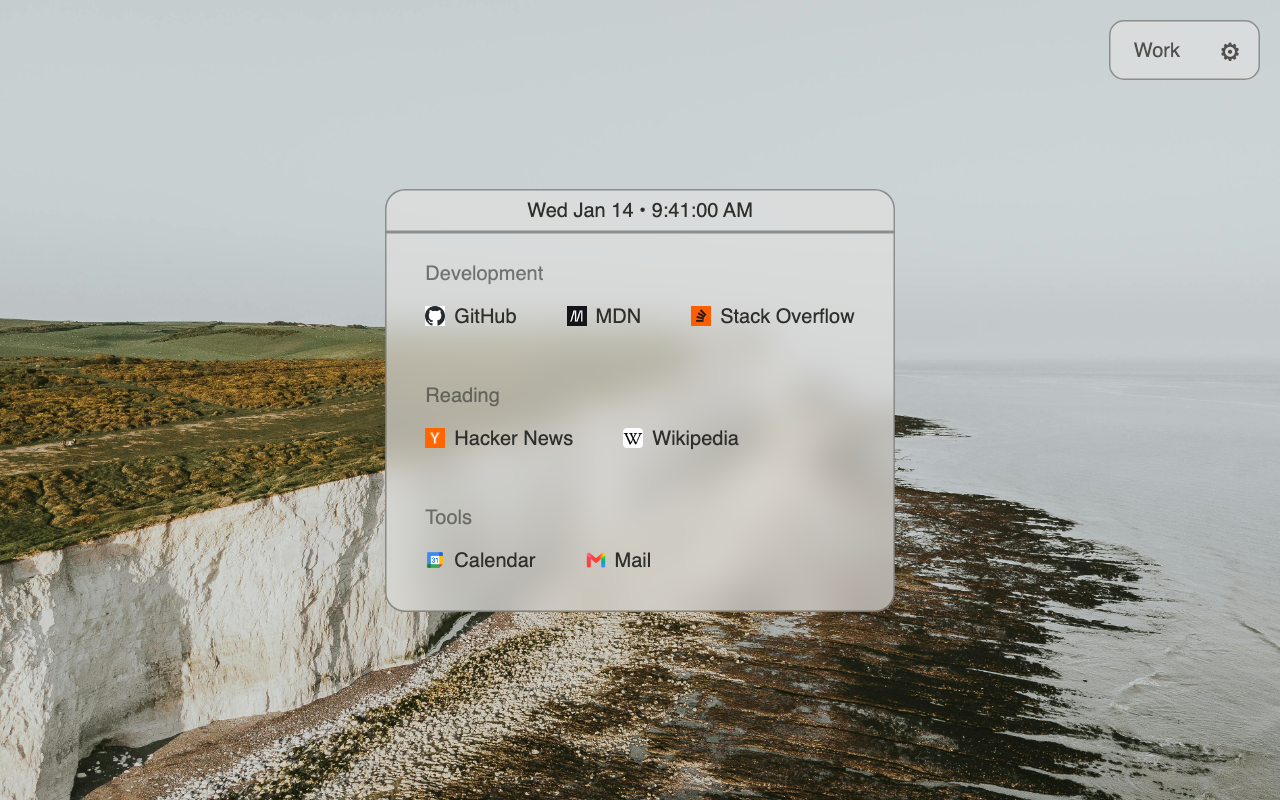
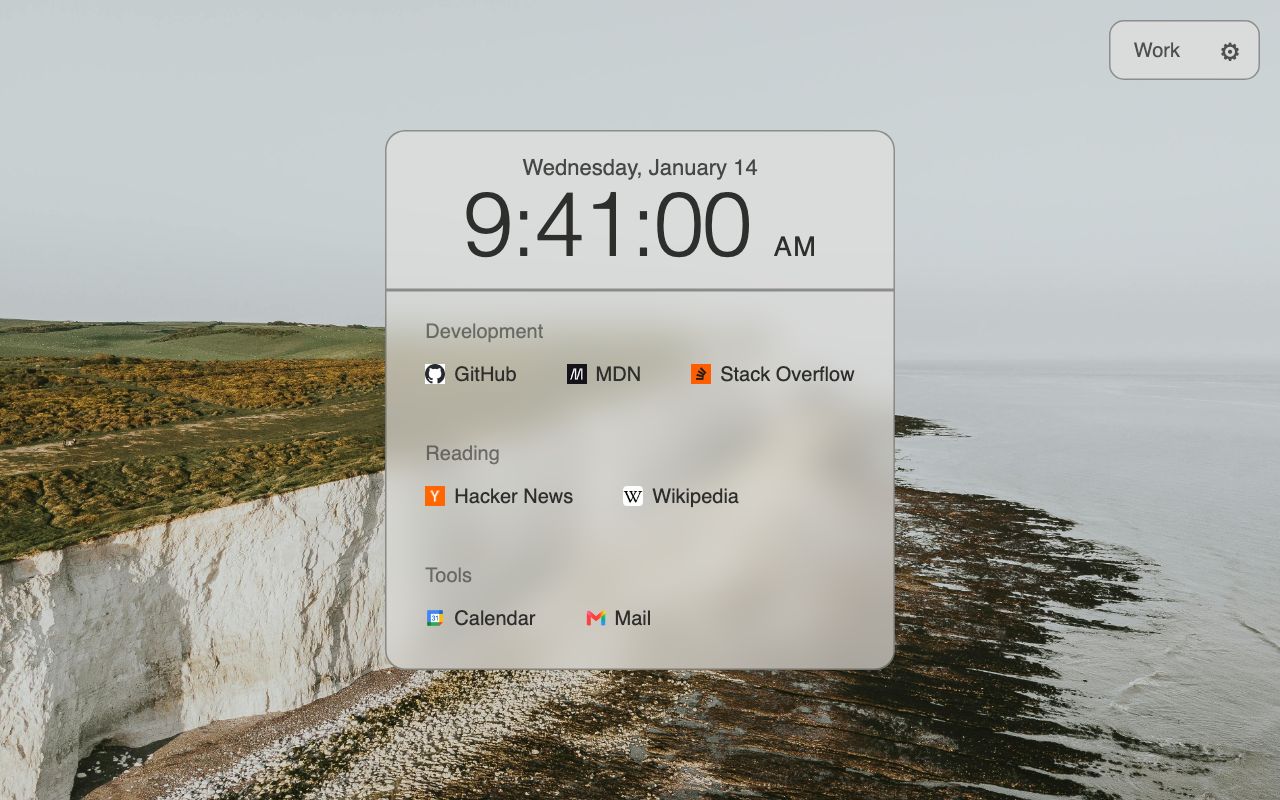
Show a lock-screen style clock in the Center and Sidebar layouts
In the layouts where the clock heads a column, the one-line clock looked
like a caption. There the date now sits on its own line, spelled out,
above a large light time with a small AM/PM, like a phone lock screen.
Corners and Dock keep the one-line clock.

updateClock now renders the date and time as separate spans, so CSS can
lay them out per layout; the inline bullet moved into CSS. Regenerates
the two store screenshots that use these layouts.

diff --git a/render.js b/render.js
@@ -131,7 +131,18 @@ const months = [
   "Dec",
 ];
 
-const getFormattedTime = (settings) => {
+const LONG_DATE = new Intl.DateTimeFormat(undefined, {
+  weekday: "long",
+  month: "long",
+  day: "numeric",
+});
+// Layouts where the clock heads a column show it lock-screen style: the date
+// on its own line above a large time
+const STACKED_CLOCK_LAYOUTS = ["center", "sidebar"];
+
+// The clock's date and time as separate strings; the stacked style gets the
+// spelled-out date, the inline style the short one
+const getClockParts = (settings, stacked) => {
   const now = new Date();
   const dayOfTheWeek = daysOfTheWeek[now.getDay()];
   const month = months[now.getMonth()];
@@ -139,7 +150,7 @@ const getFormattedTime = (settings) => {
   let hours = now.getHours();
   let suffix = "";
   if (settings.twelveHourClock) {
-    suffix = hours < 12 ? " AM" : " PM";
+    suffix = hours < 12 ? "AM" : "PM";
     hours = hours % 12 || 12;
   }
   const minutes = now.getMinutes();
@@ -150,12 +161,11 @@ const getFormattedTime = (settings) => {
   const formattedMinutes = minutes < 10 ? `0${minutes}` : minutes;
   const formattedSeconds = seconds < 10 ? `0${seconds}` : seconds;
   const secondsPart = settings.showSeconds ? `:${formattedSeconds}` : "";
-  const datePart = `${dayOfTheWeek} ${month} ${dayOfTheMonth}`;
-  const timePart = `${formattedHours}:${formattedMinutes}${secondsPart}${suffix}`;
-  if (settings.showDate && settings.showTime) {
-    return `${datePart} \u2022 ${timePart}`;
-  }
-  return settings.showDate ? datePart : timePart;
+  return {
+    date: stacked ? LONG_DATE.format(now) : `${dayOfTheWeek} ${month} ${dayOfTheMonth}`,
+    time: `${formattedHours}:${formattedMinutes}${secondsPart}`,
+    suffix,
+  };
 };
 
 // Chrome's cached icon for a page, via the favicon permission. Sites never
@@ -215,10 +225,19 @@ function renderLinkGroups(groups) {
 }
 
 function updateClock(settings) {
-  const clockSpan = document.querySelector("#clock span");
-  if (clockSpan) {
-    clockSpan.textContent = getFormattedTime(settings);
+  const clockSpan = document.querySelector("#clock > span");
+  if (!clockSpan) return;
+  const stacked = STACKED_CLOCK_LAYOUTS.includes(settings.look.layout);
+  const { date, time, suffix } = getClockParts(settings, stacked);
+  const parts = [];
+  if (settings.showDate) parts.push(`<span class="clock-date">${date}</span>`);
+  if (settings.showTime) {
+    const suffixPart = suffix ? ` <span class="clock-suffix">${suffix}</span>` : "";
+    parts.push(`<span class="clock-time">${time}${suffixPart}</span>`);
   }
+  const html = parts.join("");
+  // Runs every 100ms; only touch the DOM when the text actually changes
+  if (clockSpan.innerHTML !== html) clockSpan.innerHTML = html;
 }
 
 // Each panel zooms independently off its own multiplier

diff --git a/panels.css b/panels.css
@@ -128,9 +128,14 @@ body.no-favicons a.link .favicon {
   border-bottom-left-radius: 0;
   border-bottom-right-radius: 0;
 
-  & span {
+  & > span {
     /* same base size as the links; the clock-scale setting adjusts it */
     font-size: 1rem;
+  }
+
+  /* Inline style: date and time on one line with a bullet between */
+  & .clock-date + .clock-time::before {
+    content: " \2022  ";
   }
 }
 
@@ -175,7 +180,7 @@ body[data-layout="dock"] {
     transform: translate(-50%, -50%);
     border-radius: var(--panel-radius);
 
-    & span {
+    & > span {
       font-size: 3rem;
       white-space: nowrap;
     }
@@ -217,5 +222,45 @@ body[data-layout="sidebar"] {
   & .link-groups {
     display: block;
     border-radius: 0 0 var(--panel-radius) 0;
+  }
+}
+
+/* Lock-screen clock for the layouts where it heads a column: the date on
+   its own line above a large, light time */
+body[data-layout="center"],
+body[data-layout="sidebar"] {
+  & .clock {
+    padding: 1.25rem 1.5rem 1rem;
+    text-align: center;
+
+    & > span {
+      display: flex;
+      flex-direction: column;
+      align-items: center;
+    }
+  }
+
+  & .clock-date {
+    font-size: 1.1rem;
+    font-weight: 500;
+    opacity: 0.85;
+  }
+
+  & .clock-time {
+    font-size: 4.5rem;
+    font-weight: 200;
+    line-height: 1;
+    letter-spacing: -0.02em;
+    font-variant-numeric: tabular-nums;
+  }
+
+  & .clock-date + .clock-time::before {
+    content: none;
+  }
+
+  & .clock-suffix {
+    font-size: 0.3em;
+    font-weight: 500;
+    letter-spacing: 0.05em;
   }
 }
